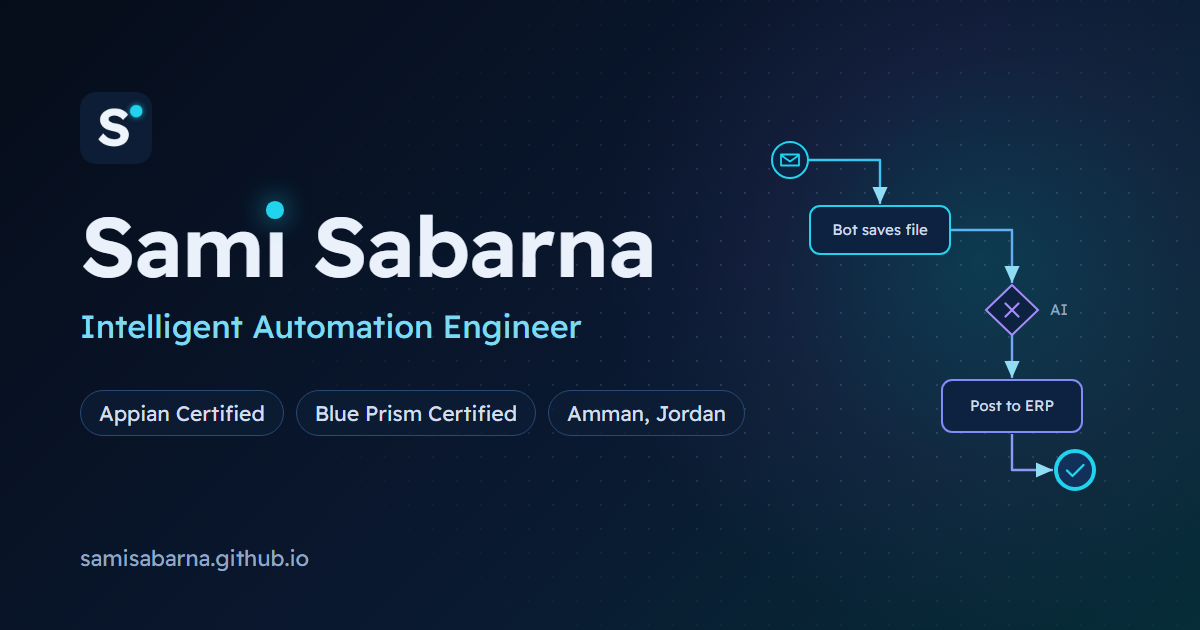
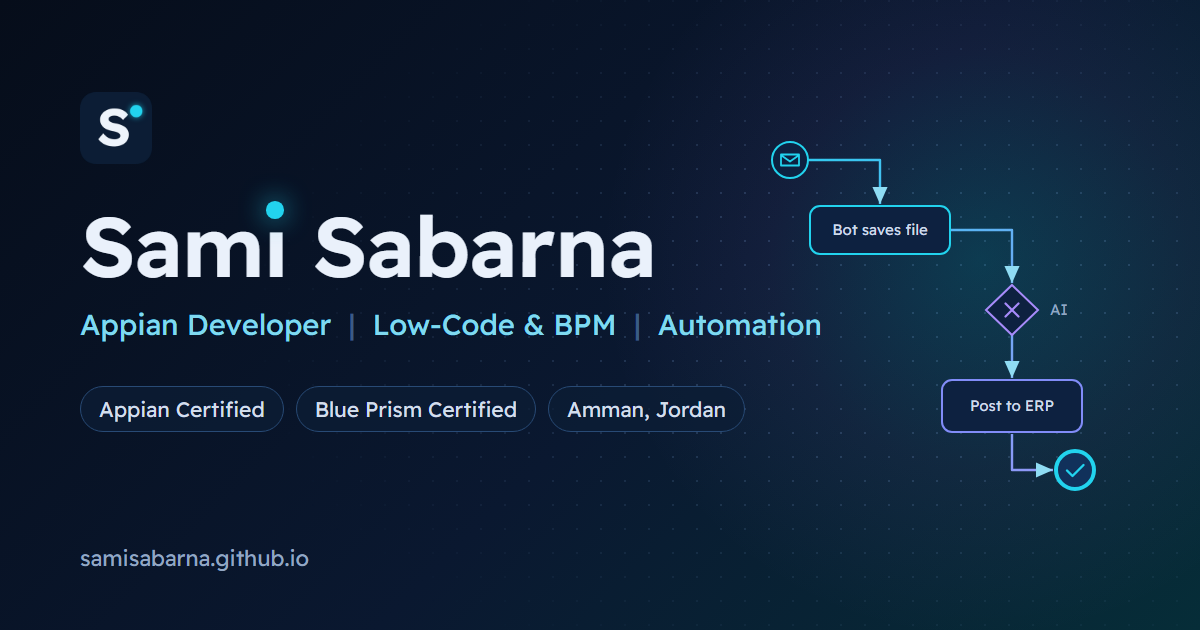
Link preview image: show the Appian Developer headline

Changed region(s): [[0.0617, 0.6032, 0.6167, 0.6937], [0.0617, 0.4825, 0.6783, 0.5429]]

diff --git a/tools/og-card.html b/tools/og-card.html
@@ -27,7 +27,8 @@
     h1 .i { position: relative; }
     h1 .i::after { content: ""; position: absolute; top: .1em; left: 50%; width: .21em; height: .21em; margin-left: -.105em; border-radius: 50%; background: #22d3ee; box-shadow: 0 0 .3em rgba(34, 211, 238, .8); }
     h1 { margin: 0; font-size: 84px; font-weight: 620; line-height: 1; letter-spacing: -.03em; font-variation-settings: "HEXP" 12; }
-    .role { margin: 18px 0 0; font-size: 32px; font-weight: 450; color: #7fd9f0; }
+    .role { margin: 18px 0 0; font-size: 29px; font-weight: 450; color: #7fd9f0; white-space: nowrap; }
+    .role .sep { margin: 0 .3em; color: #3b5b86; }
     .chips { display: flex; gap: 12px; margin-top: 44px; }
     .chip { white-space: nowrap; padding: 9px 18px; border: 1.5px solid #284a75; border-radius: 999px; background: rgba(12, 29, 53, .75); font-size: 21px; color: #d3deec; }
     .url { position: absolute; left: 80px; bottom: 58px; font-size: 22px; color: #93a7c3; }
@@ -42,7 +43,7 @@
   <div class="copy">
     <img class="mark" src="../assets/favicon-192.png" alt="">
     <h1>Sam<span class="i">ı</span> Sabarna</h1>
-    <p class="role">Intelligent Automation Engineer</p>
+    <p class="role">Appian Developer <span class="sep">|</span> Low-Code &amp; BPM <span class="sep">|</span> Automation</p>
     <div class="chips">
       <span class="chip">Appian Certified</span>
       <span class="chip">Blue Prism Certified</span>

diff --git a/index.html b/index.html
@@ -29,10 +29,10 @@
   <meta property="og:title" content="Sami Sabarna | Appian Developer &amp; Intelligent Automation Engineer">
   <meta property="og:description" content="Appian, Blue Prism and AI. From a manual process to software that runs by itself.">
   <meta property="og:url" content="https://samisabarna.github.io/">
-  <meta property="og:image" content="https://samisabarna.github.io/assets/og.png">
+  <meta property="og:image" content="https://samisabarna.github.io/assets/og.png?v=2">
   <meta property="og:image:width" content="1200">
   <meta property="og:image:height" content="630">
-  <meta property="og:image:alt" content="Sami Sabarna, Intelligent Automation Engineer, with an automation flow diagram">
+  <meta property="og:image:alt" content="Sami Sabarna, Appian Developer, with an automation flow diagram">
   <meta property="og:locale" content="en_US">
   <meta property="og:locale:alternate" content="ar_JO">
   <meta name="twitter:card" content="summary_large_image">
